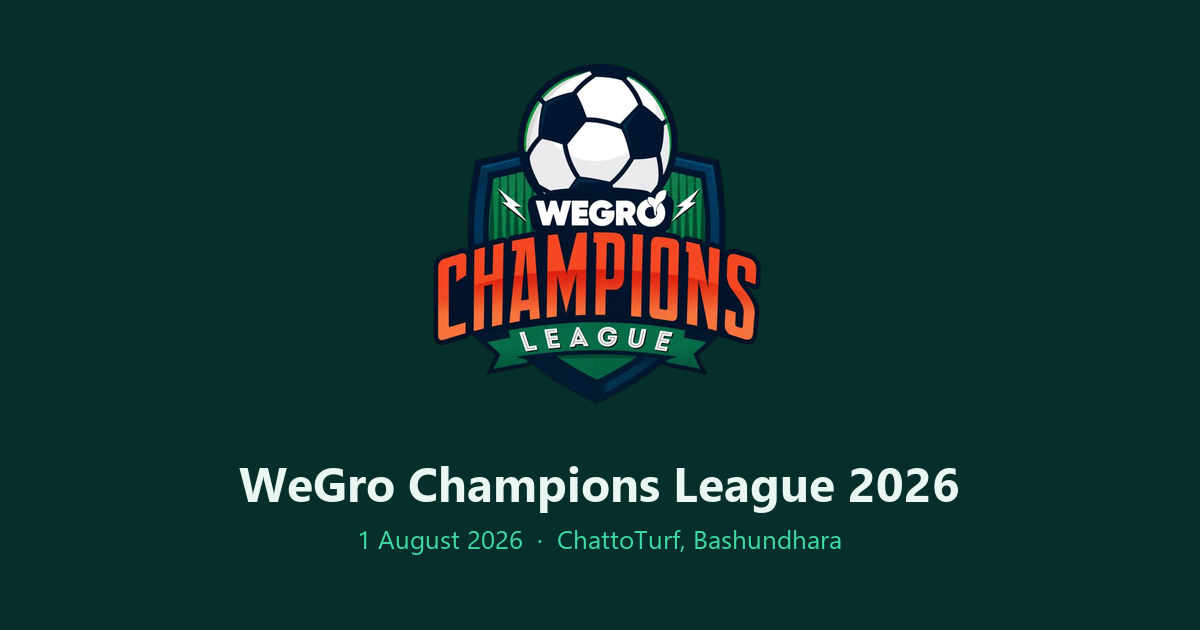
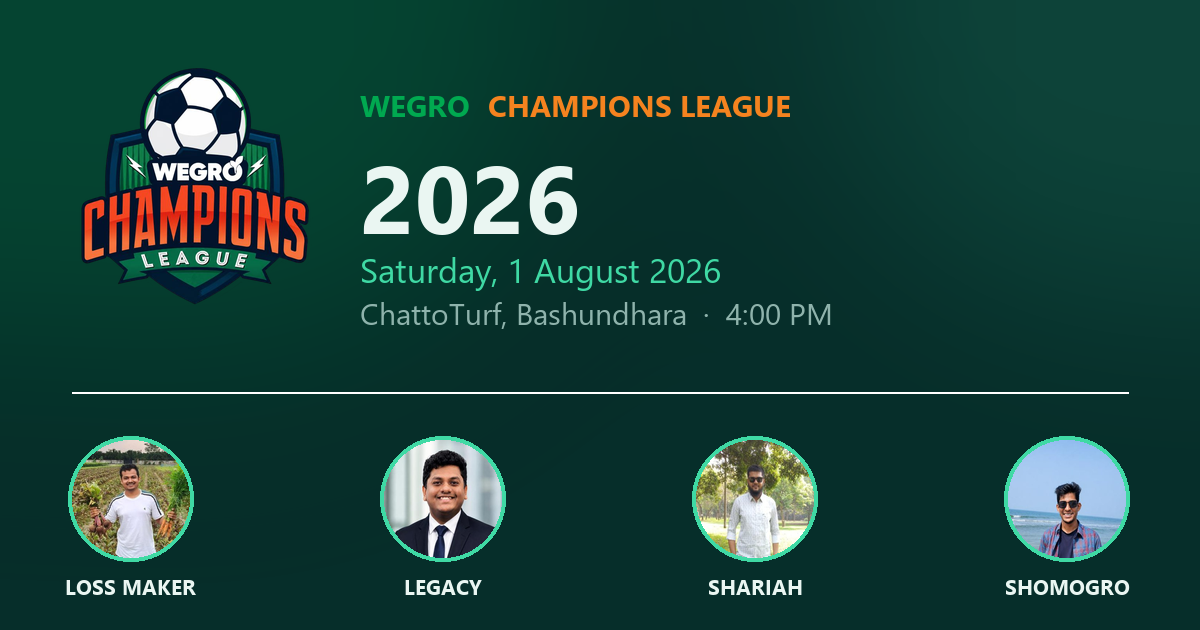
Fix the match clock, add backup/restore, fix link previews
MATCH CLOCK
The clock opened at 01:06 and jumped back there after every reset. Cause: the
start time was written with the DEVICE clock but read back against SERVER
time, so the clock began at exactly the machine's drift. Measured against
Firebase: this laptop is 66.0 seconds behind, which is precisely the 01:06
reported. Pause and resume inherited the same error, which is why the buttons
looked broken.

startedAt is now written with a server-resolved timestamp, so the value can
never depend on whose clock is wrong. Adds a regression test that reproduces
the 01:06 with a simulated 66-second drift and proves the fix, plus guards
that an unresolved or corrupt timestamp falls back to the banked time instead
of NaN.

Resetting a clock also left the match marked "live", which is why the public
page showed a LIVE badge forever. Reset now stands the match back down to
scheduled.

BACKUP & RESTORE (Danger tab)
Download the whole tournament as one JSON file and restore it later. The
restore validates that the file really is a tournament, and shows what it
contains beside what it is about to replace. Most valuable straight after the
auction - that is the hour of work you least want to redo.

LINK PREVIEWS
og:image was a RELATIVE path, and WhatsApp and Facebook will not resolve one -
which is why the shared link showed no picture. All share URLs are now
absolute, with og:url, site_name, dimensions, type, alt and Twitter equivalents
[…]

diff --git a/js/admin.js b/js/admin.js
@@ -580,6 +580,88 @@ $("#teamEdit").addEventListener("click", async (ev) => {
   }
 });
 
+/* --------------------------------------------------------- backup & restore */
+
+/** A one-line summary of a tournament file, so a restore is never a blind leap. */
+function describe(d) {
+  const teams = D.teamsList(d);
+  const players = D.playersList(d);
+  const sold = players.filter((p) => p.teamId).length;
+  const played = D.matchesList(d).filter(D.isPlayed).length;
+  const goals = D.allEvents(d).length;
+  return `${teams.length} teams · ${sold}/${players.length} players sold · ${played} matches played · ${goals} goals logged`;
+}
+
+$("#exportBtn").addEventListener("click", () => {
+  if (!data) return toast("Nothing to back up yet.", "err");
+  const stamp = new Date()
+    .toISOString()
+    .slice(0, 16)
+    .replace("T", "-")
+    .replace(":", "");
+  const payload = {
+    _format: "wegro-champions-league",
+    _version: 1,
+    _exportedAt: new Date().toISOString(),
+    tournament: data,
+  };
+  const blob = new Blob([JSON.stringify(payload, null, 2)], { type: "application/json" });
+  const url = URL.createObjectURL(blob);
+  const a = document.createElement("a");
+  a.href = url;
+  a.download = `wegro-cl-backup-${stamp}.json`;
+  document.body.appendChild(a);
+  a.click();
+  a.remove();
+  URL.revokeObjectURL(url);
+  $("#backupInfo").textContent = `Backed up: ${describe(data)}`;
+  toast("Backup downloaded.");
+});
+
+$("#importBtn").addEventListener("click", () => $("#importFile").click());
+
+$("#importFile").addEventListener("change", async (ev) => {
+  const file = ev.target.files?.[0];
+  ev.target.value = ""; // let the same file be picked again after a cancel
+  if (!file) return;
+
+  let incoming;
+  try {
+    const parsed = JSON.parse(await file.text());
+    // Accept both the wrapped export and a bare tournament node.
+    incoming = parsed?.tournament ?? parsed;
+  } catch {
+    return toast("That file isn't valid JSON.", "err");
+  }
+
+  // Check it's actually a tournament before letting it replace a live one.
+  const missing = ["teams", "players", "matches"].filter((k) => !incoming?.[k]);
+  if (missing.length)
+    return toast(`Not a tournament backup — missing ${missing.join(", ")}.`, "err");
+  if (!D.teamsList(incoming).length || !D.matchesList(incoming).length)
+    return toast("That backup has no teams or no fixtures.", "err");
+
+  const now = data ? `\n\nReplacing what's live now:\n${describe(data)}` : "";
+  if (
+    !confirm(
+      `Restore this backup?\n\n${describe(incoming)}${
+        incoming._exportedAt ? `\nTaken ${new Date(incoming._exportedAt).toLocaleString()}` : ""
+      }${now}\n\nThis overwrites everything currently in the database.`
+    )
+  )
+    return;
+
+  try {
+    await replaceAll(incoming);
+    matchSig = "";
+    settingsPainted = false;
+    $("#backupInfo").textContent = `Restored: ${describe(incoming)}`;
+    toast("Backup restored.");
+  } catch (ex) {
+    toast(friendlyError(ex), "err");
+  }
+});
+
 /* ------------------------------------------------------------------ danger */
 
 $("#resetScores").addEventListener("click", async () => {

diff --git a/index.html b/index.html
@@ -10,14 +10,49 @@
     />
     <meta name="theme-color" content="#062E2A" />
 
+    <!-- ====================================================================
+         Link previews for WhatsApp, Messenger, Facebook, Slack and X.
+
+         These URLs MUST be absolute. WhatsApp and Facebook do not resolve a
+         relative og:image, which is why a relative path shows a bare link with
+         no picture. If the site ends up on a different domain, change the four
+         absolute URLs below — nothing else needs touching.
+
+         After deploying, force the scrapers to re-read the page:
+           Facebook/WhatsApp  https://developers.facebook.com/tools/debug/
+           (paste the URL, press "Scrape Again" — previews are cached hard)
+         ==================================================================== -->
+    <link rel="canonical" href="https://wegro-champions-league.netlify.app/" />
+
     <meta property="og:type" content="website" />
-    <meta property="og:title" content="WeGro Champions League 2026" />
+    <meta property="og:site_name" content="WeGro Champions League" />
+    <meta property="og:locale" content="en_GB" />
+    <meta property="og:url" content="https://wegro-champions-league.netlify.app/" />
+    <meta property="og:title" content="WeGro Champions League 2026 — Live Scores" />
     <meta
       property="og:description"
-      content="Live scores, standings and squads — 1 August 2026, ChattoTurf, Bashundhara."
+      content="Live scores, standings, squads and top scorers. Saturday 1 August 2026, ChattoTurf, Bashundhara, 4:00 PM."
     />
-    <meta property="og:image" content="assets/og.png" />
+    <meta property="og:image" content="https://wegro-champions-league.netlify.app/assets/og.png" />
+    <meta
+      property="og:image:secure_url"
+      content="https://wegro-champions-league.netlify.app/assets/og.png"
+    />
+    <meta property="og:image:type" content="image/png" />
+    <meta property="og:image:width" content="1200" />
+    <meta property="og:image:height" content="630" />
+    <meta
+      property="og:image:alt"
+      content="WeGro Champions League 2026 crest with the four team captains"
+    />
+
     <meta name="twitter:card" content="summary_large_image" />
+    <meta name="twitter:title" content="WeGro Champions League 2026 — Live Scores" />
+    <meta
+      name="twitter:description"
+      content="Live scores, standings, squads and top scorers. Saturday 1 August 2026, ChattoTurf, Bashundhara."
+    />
+    <meta name="twitter:image" content="https://wegro-champions-league.netlify.app/assets/og.png" />
 
     <link rel="icon" href="assets/favicon.png" type="image/png" />
     <link rel="apple-touch-icon" href="assets/favicon.png" />

diff --git a/js/live.js b/js/live.js
@@ -15,7 +15,7 @@
    drift out of sync during a fast match.
    ========================================================================== */
 
-import { writeMany, serverNow } from "./backend.js";
+import { writeMany, serverNow, SERVER_TIME } from "./backend.js";
 import { $, setHTML, show, toast } from "./ui.js";
 import { celebrate } from "./confetti.js";
 import * as D from "./data.js";
@@ -329,7 +329,7 @@ async function scoreGoal(teamId, pick) {
     id: evId,
     type: "goal",
     teamId,
-    at: Date.now(),
+    at: SERVER_TIME,
     clockLabel: `${c.label} ${f.main}${f.extra || ""}`,
   };
 
@@ -365,8 +365,10 @@ async function clockAction(action) {
     const period = c.period === "pre" ? "h1" : c.period;
     patch[`${path}/period`] = period;
     patch[`${path}/running`] = true;
-    patch[`${path}/startedAt`] = Date.now();
-    patch[`${path}/elapsed`] = c.elapsed;
+    // The SERVER stamps this, never this device. Writing Date.now() here while
+    // reading with serverNow() made the clock open at the device's clock drift.
+    patch[`${path}/startedAt`] = SERVER_TIME;
+    patch[`${path}/elapsed`] = Math.round(c.elapsed);
     patch[`matches/${m.id}/status`] = "live";
     Object.assign(patch, bothScores(m)); // 0-0 from kick-off, not null-null
   }
@@ -403,6 +405,9 @@ async function clockAction(action) {
       [`${path}/startedAt`]: null,
       [`${path}/elapsed`]: 0,
       [`${path}/addedSeconds`]: 0,
+      // Also stand the match down. Leaving it "live" is why the public page
+      // kept showing a LIVE badge for a match that was no longer being played.
+      [`matches/${m.id}/status`]: "scheduled",
     });
   }
 

diff --git a/js/backend.js b/js/backend.js
@@ -149,6 +149,16 @@ export function subscribe(cb) {
   };
 }
 
+/**
+ * Marker meaning "let the SERVER decide this timestamp".
+ *
+ * Anything time-critical — above all the match clock — must never be stamped
+ * with the device clock. A laptop running a minute slow would otherwise start
+ * every match at 01:00, because the value is written with one clock and read
+ * against another. Firebase resolves this sentinel on its own servers.
+ */
+export const SERVER_TIME = "__WGCL_SERVER_TIME__";
+
 /** Write one path (relative to DB_PATH). `null` deletes. Stamps meta/updatedAt. */
 export async function writePath(relPath, value) {
   return writeMany({ [relPath]: value });
@@ -162,12 +172,17 @@ export async function writeMany(patch) {
     if (!demoUser()) throw new Error("Not signed in.");
     let data = demoRead();
     updates["meta/updatedAt"] = Date.now();
-    for (const [p, v] of Object.entries(updates)) data = setIn(data, p, v);
+    for (const [p, v] of Object.entries(updates)) {
+      data = setIn(data, p, v === SERVER_TIME ? Date.now() : v);
+    }
     demoWrite(data);
     return;
   }
 
   const { db, ref, update, serverTimestamp } = await initFirebase();
+  for (const [p, v] of Object.entries(updates)) {
+    if (v === SERVER_TIME) updates[p] = serverTimestamp();
+  }
   updates["meta/updatedAt"] = serverTimestamp();
   await update(ref(db, DB_PATH), updates);
 }

diff --git a/admin.html b/admin.html
@@ -306,6 +306,20 @@
 
           <!-- ------------------------------------------------------- DANGER -->
           <section class="panel" role="tabpanel" id="panel-danger" aria-labelledby="tab-danger" hidden>
+            <div class="card">
+              <h3 class="card__title">Backup &amp; restore</h3>
+              <p class="faint" style="margin-top: -6px">
+                Everything — teams, squads and prices, fixtures, scores and goals — in one file.
+                Take a backup right after the auction, and again before match day.
+              </p>
+              <div class="row">
+                <button class="btn btn--primary" id="exportBtn" type="button">⬇ Download backup</button>
+                <button class="btn" id="importBtn" type="button">⬆ Restore from a file</button>
+                <input type="file" id="importFile" accept="application/json,.json" hidden />
+              </div>
+              <p class="faint" id="backupInfo" style="margin-bottom: 0"></p>
+            </div>
+
             <div class="card danger-card">
               <h3 class="card__title" style="color: #ffb3b3">⚠ Danger zone</h3>
               <div class="danger-row">

diff --git a/README.md b/README.md
@@ -312,6 +312,44 @@ ship set to the deck: 100 BDT budget, **8 BDT base price**, 1–5 BDT raises, 6 
 **Danger** has three separate resets: clear scores only, reset the auction only, or wipe
 everything. Each needs a typed confirmation.
 
+## Backup & restore
+
+**Danger → Download backup** saves the whole tournament — teams, squads and prices, fixtures,
+scores and goals — as a single JSON file.
+
+**Restore from a file** puts it all back. It checks the file is really a tournament before
+touching anything, and shows you what it contains next to what it's about to replace, so a
+restore is never a blind leap.
+
+Worth doing twice: **right after the auction** (that's the hour of work you least want to redo)
+and **before kick-off**. If anything goes wrong mid-tournament you're one file away from where
+you were.
+
+## Why the match clock is server-stamped
+
+The clock stores *when it started* rather than a ticking number — and that start time is written
+by **Firebase's servers**, not by the admin's laptop.
+
+This matters more than it sounds. Writing the device's own time while reading against server time
+means the clock opens at whatever your machine's clock drift happens to be: a laptop running a
+minute slow started every match at `01:00`. Since the timestamp now comes from the server, the
+clock reads the same on the admin laptop and on every phone watching, no matter how wrong any of
+those devices' clocks are.
+
+## Link previews
+
+Sharing the link in WhatsApp, Messenger, Facebook, Slack or X shows the crest, the four captains,
+the date and the venue.
+
+Those tags live in the `<head>` of `index.html` and **must use absolute URLs** — WhatsApp and
+Facebook will not resolve a relative `og:image`, which is the usual reason a shared link appears
+as bare text. If you move to a different domain, change the four absolute URLs at the top of
+`index.html`; nothing else needs touching.
+
+Previews are cached hard. After deploying, paste the URL into
+[Facebook's Sharing Debugger](https://developers.facebook.com/tools/debug/) and press
+**Scrape Again** to force WhatsApp and Messenger to re-read it.
+
 ---
 
 ## Files
@@ -394,6 +432,8 @@ Work down this list once. Everything above the line must be done **before the au
 - [ ] Signed in once, UID pasted into `ADMIN_UIDS` **and** `database.rules.json`, rules published
 - [ ] The gold "one step left" card is gone from the admin panel
 - [ ] Netlify domain added under **Authentication → Settings → Authorized domains**
+- [ ] The four absolute URLs in `index.html` match the real domain, and the link previews
+      correctly in a WhatsApp message to yourself
 - [ ] Signed out and tried the admin page in a private window — you get the login screen
 - [ ] The `Permission denied` test in Step 3 actually returns a denial
 - [ ] Signed in as admin and pressed **Load tournament**
@@ -403,6 +443,7 @@ Work down this list once. Everything above the line must be done **before the au
 
 **Before 1 August, 4:00 PM — match day**
 
+- [ ] **Download a backup** the moment the auction finishes
 - [ ] Squads look right on the public **Squads** tab
 - [ ] Auction closed in **Settings** (stops accidental edits mid-tournament)
 - [ ] Kick-off time in **Settings** matches reality, so the countdown is honest
